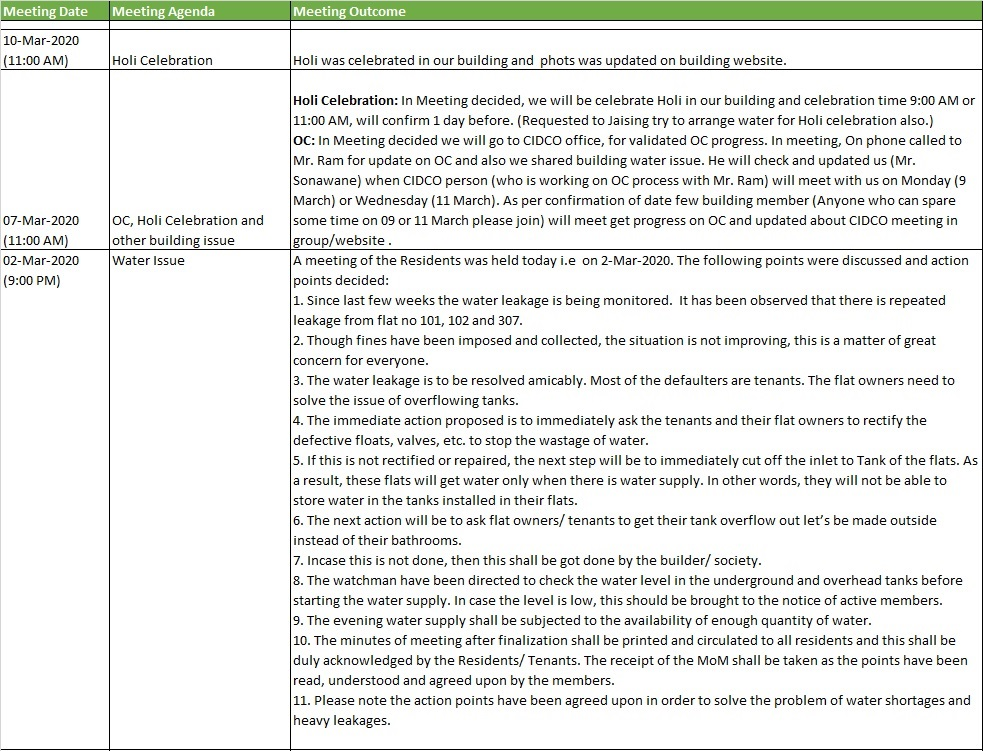
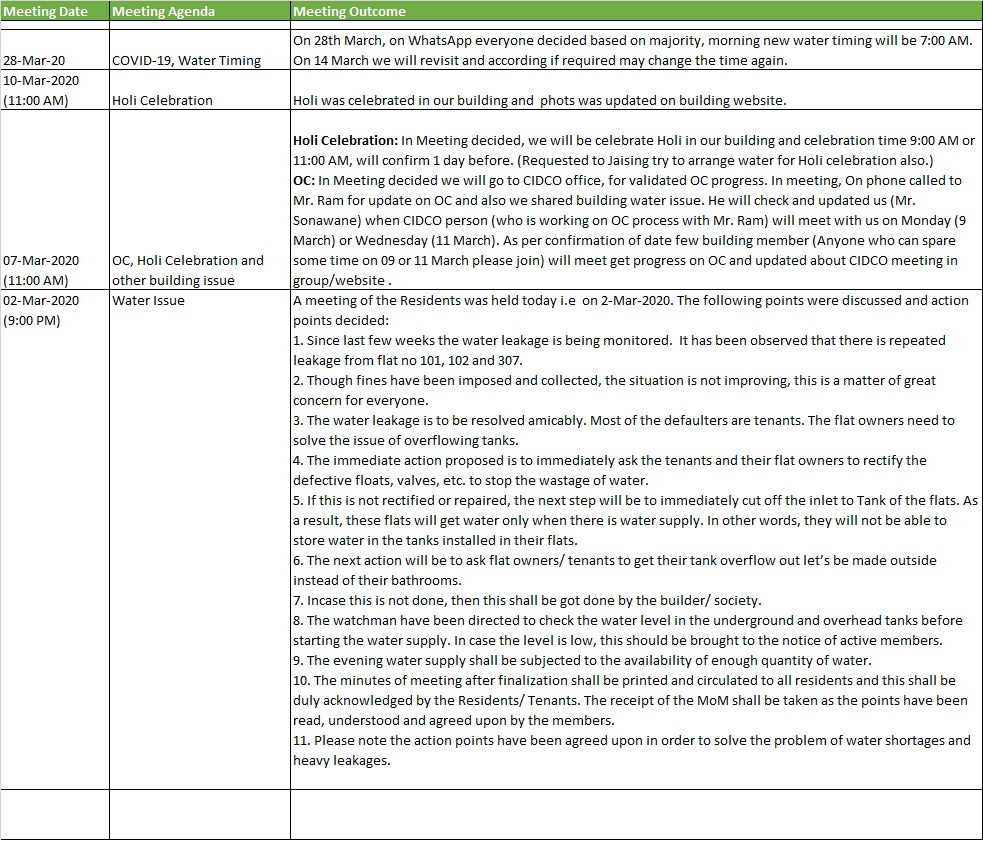
Water timing

Changed region(s): [[0.0, 0.0, 1.0, 0.98], [0.9766, 0.98, 1.0, 1.0]]

diff --git a/src/main/webapp/index.html b/src/main/webapp/index.html
@@ -124,11 +124,10 @@
 								<!--  Evening 2 Half water Tank (Around 7:00 PM To 8:00 PM)  -->
 							</p>
 
-							<p>Morning 2 Full water Tank (Water supply start timing 6:00
-								AM & Sunday 7:00 AM).</p>
-							<p>Evening 2 Half water Tank (Water supply start timing 7:00
-								PM).</p>
+							<p>Morning 2 Full water Tank (Water supply start timing 7:00 AM).</p>
+							<p>Evening 2 Half water Tank (Water supply start timing 7:00 PM).</p>
 
+							
 							<p style="color: red">* The evening water supply shall be
 								subjected to the availability of sufficient quantity of water.</p>
 
